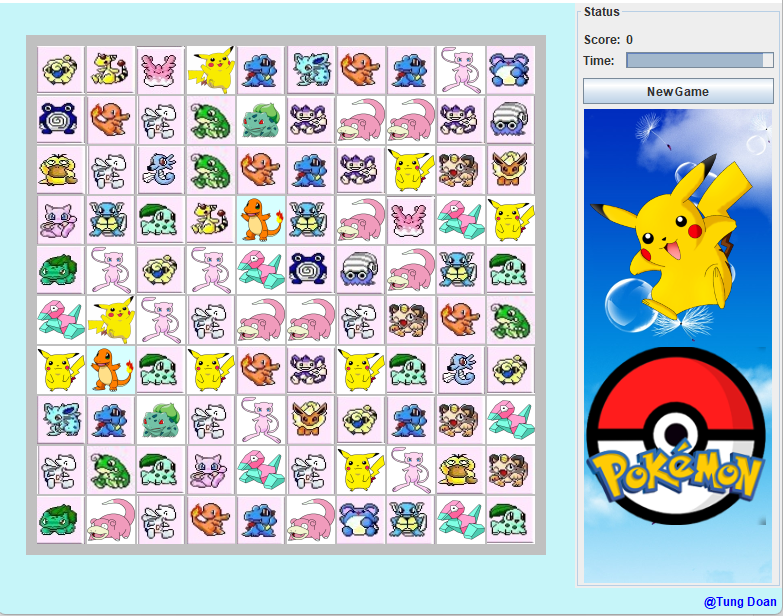
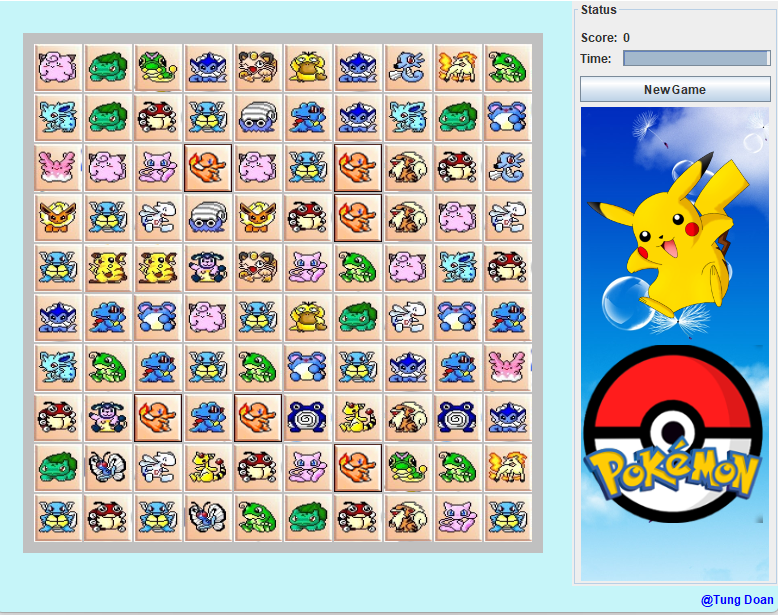
script for stealing assets

diff --git a/resources/fetch-assets-script.js b/resources/fetch-assets-script.js
@@ -1,0 +1,54 @@
+const  https = require('https');
+const { existsSync, mkdirSync, createWriteStream } = require('fs');
+
+const MAX_DOWNLOAD_QUEUE = 10;
+const ASSETS_SOURCES = './Assets'
+
+function makeDir() {
+	if (!existsSync(ASSETS_SOURCES)){
+		mkdirSync(ASSETS_SOURCES);
+	}
+}
+
+var queue = 0;
+var running = true;
+
+function download(url, fileName) {
+	https.get(url, response => {
+		if(response.statusCode < 400) {
+			const file = createWriteStream(fileName);
+			response.pipe(file);
+			file.on('finish', () => {
+				file.close();
+				queue--;
+			});
+		} else {
+			running = false;
+		}
+	})
+};
+
+/*
+Fetch all available assets
+*/
+async function fetchAssets() {
+	makeDir();
+	let i = 1;
+	while(running) {
+		queue++;
+		download(`https://www.gamepikachu.vn/games/games/pikachu-do-dien/images/pieces${i}.png`, `${ASSETS_SOURCES}/icon${i}.png`);
+		await new Promise(resolve => {
+			const wait = setInterval(() => {
+				if(queue < MAX_DOWNLOAD_QUEUE) {
+					clearInterval(wait);
+					resolve();
+				}
+			}, 50)
+		});
+		i++;
+	}
+}
+
+fetchAssets();
+
+

diff --git a/src/Game/PikachuGraphics.java b/src/Game/PikachuGraphics.java
@@ -4,8 +4,8 @@ import java.awt.*;
 import java.awt.event.*;
 import javax.swing.*;
 import javax.swing.border.*;
-
 import java.util.Date;
+
 
 /**
  * Render the map matrix and handle events
@@ -35,13 +35,11 @@ public class PikachuGraphics extends JPanel implements ActionListener {
 
 		setLayout(new GridLayout(row, col, bound, bound));
 		setBackground(backGroundColor);
-		setPreferredSize(new Dimension((size + bound) * col, (size + bound)
-				* row));
+		setPreferredSize(new Dimension((size + bound) * col, (size + bound) * row));
 		setBorder(new EmptyBorder(10, 10, 10, 10));
 		setAlignmentY(JPanel.CENTER_ALIGNMENT);
 
 		newGame();
-
 	}
 
 	public void newGame() {
@@ -64,10 +62,10 @@ public class PikachuGraphics extends JPanel implements ActionListener {
 
 	private Icon getIcon(int index) {
 		int width = 48, height = 48;
-		Image image = new ImageIcon(getClass().getResource("/Icon/icon" + index + ".jpg")).getImage();
+		Image image;
+		image = new ImageIcon(System.getProperty("user.dir") + "/resources/Assets/icon" + index + ".png").getImage();
 		Icon icon = new ImageIcon(image.getScaledInstance(width, height, Image.SCALE_SMOOTH));
 		return icon;
-
 	}
 
 	private JButton createButton(String action) {
@@ -111,8 +109,7 @@ public class PikachuGraphics extends JPanel implements ActionListener {
 			btn[p1.x][p1.y].setBorder(new LineBorder(Color.red));
 		} else {
 			p2 = new Point(x, y);
-			System.out.println("(" + p1.x + "," + p1.y + ")" + " --> " + "("
-					+ p2.x + "," + p2.y + ")");
+			System.out.println("(" + p1.x + "," + p1.y + ")" + " --> " + "(" + p2.x + "," + p2.y + ")");
 			line = algorithm.checkTwoPoint(p1, p2);
 			if (line != null) {
 				System.out.println("line != null");

diff --git a/src/Game/Algorithm.java b/src/Game/Algorithm.java
@@ -1,6 +1,7 @@
 package Game;
 
 import java.awt.Point;
+import java.io.File;
 import java.util.ArrayList;
 import java.util.Random;
 
@@ -13,15 +14,25 @@ public class Algorithm {
 	private int col;
 	private int notBarrier = 0;
 	private int[][] matrix;
+	private int imgNumber;
 
 	public Algorithm(int row, int col) {
 		this.row = row;
 		this.col = col;
 		System.out.println(row + "," + col);
-		// readFile();
+		
+		File directory = new File(System.getProperty("user.dir") + "/resources/Assets/");
+		for (File file : directory.listFiles()) {
+            if (file.isFile()) {
+            	String filename = file.getName();
+                if(filename.startsWith("icon") && filename.endsWith(".png")) {
+                	imgNumber++;
+                }
+            }
+        }
+		
 		createMatrix();
 		showMatrix();
-		
 	}
 
 	// show matrix
@@ -114,9 +125,11 @@ public class Algorithm {
 					&& checkLineY(x, pMaxX.x, pMaxX.y)) {
 
 				System.out.println("Rect y");
-				System.out.println("(" + pMinX.x + "," + pMinX.y + ") -> (" + x
-						+ "," + pMinX.y + ") -> (" + x + "," + pMaxX.y
-						+ ") -> (" + pMaxX.x + "," + pMaxX.y + ")");
+				System.out.println("(" + pMinX.x + "," + pMinX.y 
+					+ ") -> (" + x + "," + pMinX.y 
+					+ ") -> (" + x + "," + pMaxX.y
+					+ ") -> (" + pMaxX.x + "," + pMaxX.y + 
+				")");
 				return x;
 			}
 		}
@@ -263,7 +276,6 @@ public class Algorithm {
 
 		Random rand = new Random();
 		// int imgNumber = row * col / 4;
-		int imgNumber = 37;
 		int maxDouble = imgNumber / 4;
 		int imgArr[] = new int[imgNumber + 1];
 		ArrayList<Point> listPoint = new ArrayList<Point>();

diff --git a/src/Game/PikachuFrame.java b/src/Game/PikachuFrame.java
@@ -79,7 +79,8 @@ public class PikachuFrame extends JFrame implements ActionListener, Runnable {
 		panelControl.add(btnNewGame = createButton("New Game"),
 				BorderLayout.PAGE_END);
 
-		Icon icon = new ImageIcon(getClass().getResource("/Icon/pokemon.png"));
+		
+		Icon icon = new ImageIcon(System.getProperty("user.dir") + "/resources/Assets/pokemon.png");
 
 		// use panel set Layout BorderLayout to panel control in top
 		JPanel panel = new JPanel(new BorderLayout());

diff --git a/README.md b/README.md
@@ -1,6 +1,9 @@
 # Pokemon
 A simple Java implementation for [Mahjong](https://en.wikipedia.org/wiki/Mahjong), which uses the asset of Pokemons
 
+## Assets
+I write a small script to steal the assets from [here](https://www.gamepikachu.vn/) and stored under `/resources/Assets/`. You can update the assets by running the script as follows: `cd resources` then `npm install https` then `node fetch-assets-script.js`.
+
 ## Requirements for run
 - Java installation including [JDK](https://www.oracle.com/java/technologies/downloads/) and [JVM](https://java.com/en/download/manual.jsp)
 - Integrated Development Environment (IDE) (i.e., [Eclipse](https://www.eclipse.org/ide/), [IntelliJ](https://www.jetbrains.com/idea/), etc)
